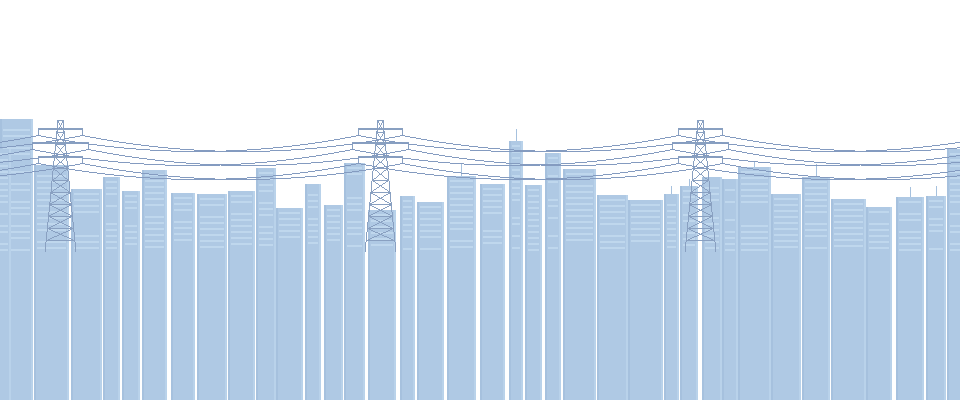
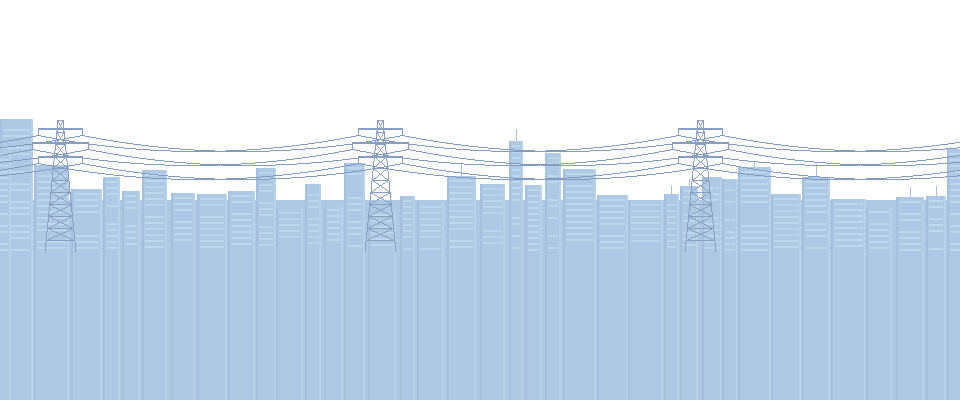
Version de arte por fondo: street y construction con bruma
BACKGROUND_SOURCES elige la carpeta de cada fondo: street y construction
salen de backgrounds/ (con bruma), park y market de backgrounds_sin_bruma/.
Incluye los layer_3_far corregidos (sin rendijas) de construction y market
en la carpeta con bruma.

diff --git a/src/config/constants.js b/src/config/constants.js
@@ -49,20 +49,27 @@ export const CAMERA = {
 //   Horizontal (factorX): se desplaza la textura (tilePositionX = scrollX · factorX). Las capas de 960 px
 //     se repiten sin costura, así que sirven para salas de cualquier ancho.
 //   Vertical (factorY): anclado al suelo, salvo las capas con factorY 0 (el cielo), que quedan fijas en
-//     y = 0 cubriendo toda la pantalla y nunca se mueven. Con la cámara lo más abajo posible, la fila groundLine de cada
-//     imagen coincide en pantalla con la superficie del suelo; si la cámara sube Δ px, la capa baja
-//     factorY · Δ px en pantalla (el suelo baja Δ, así que la capa "se queda atrás" como algo lejano).
-// Cada fondo es una carpeta en <basePath><nombre>/ con las mismas 4 capas (ver README.txt ahí). Las salas eligen el suyo con el campo `background`; los componentes usan ParallaxBackground.
-export const BACKGROUNDS = ['street', 'park', 'market', 'construction'];
+//     y = 0 cubriendo toda la pantalla y nunca se mueven. Con la cámara lo más abajo posible, la fila
+//     groundLine de cada imagen coincide en pantalla con la superficie del suelo; si la cámara sube Δ px,
+//     la capa baja factorY · Δ px (el suelo baja Δ, así que la capa "se queda atrás" como algo lejano).
+// Cada fondo es una carpeta <basePath><versión>/<nombre>/ con las mismas 4 capas (ver README.txt ahí).
+// Hay dos versiones del arte: 'backgrounds' (con bruma) y 'backgrounds_sin_bruma'; cada fondo elige la
+// suya en BACKGROUND_SOURCES. Las salas eligen fondo con el campo `background` (lo dibuja ParallaxBackground).
+export const BACKGROUND_SOURCES = {
+  street: 'backgrounds', // con bruma
+  park: 'backgrounds_sin_bruma',
+  market: 'backgrounds_sin_bruma',
+  construction: 'backgrounds', // con bruma
+};
+export const BACKGROUNDS = Object.keys(BACKGROUND_SOURCES); // orden del ciclo de F2
 
 export const PARALLAX = {
-  // Relativa: Vite sirve public/ en la raíz y la copia a dist/. Usamos la versión sin bruma; la versión
-  // con bruma sigue en public/assets/backgrounds/ por si se quiere comparar (basta cambiar esta ruta).
-  basePath: 'assets/backgrounds_sin_bruma/',
+  basePath: 'assets/', // relativa: Vite sirve public/ en la raíz y la copia a dist/
   groundLine: 256, // px, fila de las imágenes donde se apoya la base de las casas
   // checkBottom: en modo debug, avisar por consola si el borde inferior de la capa queda por encima del
-  // de la pantalla. sky y clouds miden 270 y con el anclaje su borde queda siempre ~50 px arriba (avisarían
-  // todo el tiempo), pero no dejan hueco porque far y mid, opacas abajo, las tapan. Las que importan son esas dos.
+  // de la pantalla. sky está fija en y = 0 y cubre toda la pantalla; clouds mide 270 y con el anclaje
+  // su borde queda ~50 px arriba (avisaría todo el tiempo), pero es transparente abajo y far/mid, opacas,
+  // la tapan. Las que importan son esas dos.
   layers: [
     { id: 'sky', file: 'layer_1_sky.png', factorX: 0, factorY: 0, checkBottom: false },
     { id: 'clouds', file: 'layer_2_clouds.png', factorX: 0.05, factorY: 0.05, checkBottom: false },

diff --git a/src/scenes/PreloadScene.js b/src/scenes/PreloadScene.js
@@ -1,5 +1,5 @@
 import * as Phaser from 'phaser';
-import { TILE, PLAYER, COLORS, PARALLAX, BACKGROUNDS } from '../config/constants.js';
+import { TILE, PLAYER, COLORS, PARALLAX, BACKGROUNDS, BACKGROUND_SOURCES } from '../config/constants.js';
 import { bgKey } from '../systems/ParallaxBackground.js';
 import { CHARACTERS } from '../data/characters.js';
 
@@ -20,7 +20,7 @@ export class PreloadScene extends Phaser.Scene {
     // Cargamos todos los fondos (16 PNG chicos): así cambiar de sala o de fondo con F2 no espera carga.
     for (const bg of BACKGROUNDS) {
       for (const layer of PARALLAX.layers) {
-        this.load.image(bgKey(bg, layer.id), `${PARALLAX.basePath}${bg}/${layer.file}`);
+        this.load.image(bgKey(bg, layer.id), `${PARALLAX.basePath}${BACKGROUND_SOURCES[bg]}/${bg}/${layer.file}`);
       }
     }
   }
